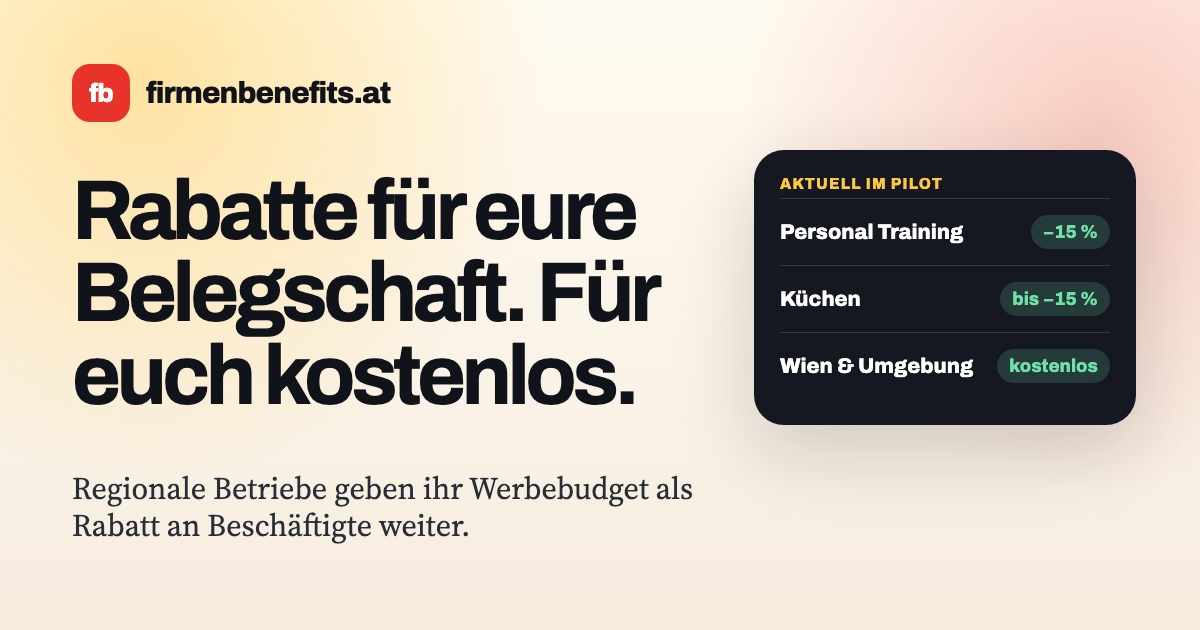
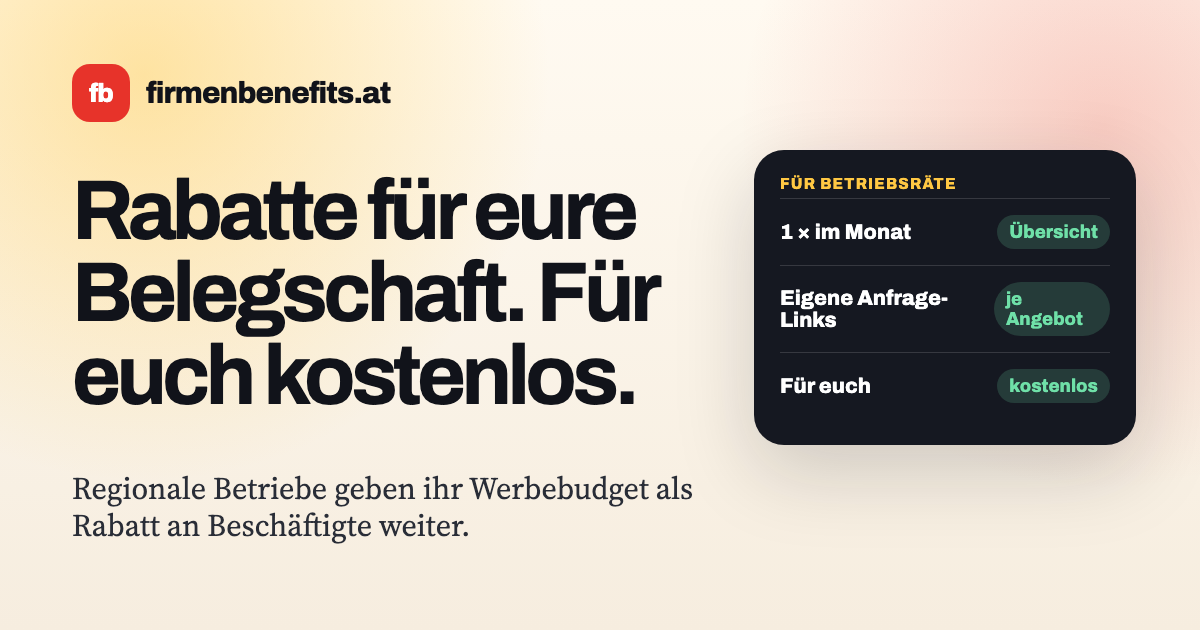
Angebote nicht öffentlich: keine Übersicht/Links/Sitemap, noindex; individuelle Links je Angebot und Gremium (br/utm); Startseite ohne Angebotsformular

diff --git a/public/site.js b/public/site.js
@@ -30,30 +30,6 @@ menu?.querySelectorAll('a').forEach(a => a.addEventListener('click', () => menu.
 document.addEventListener('keydown', e => { if (e.key === 'Escape') menu?.removeAttribute('open'); });
 document.addEventListener('click', e => { if (menu?.open && !e.target.closest('.mobile-menu')) menu.removeAttribute('open'); });
 
-// --- Region filter (/angebote/) ---
-const filterButtons = [...document.querySelectorAll('[data-filter]')];
-if (filterButtons.length) {
-  const cards = [...document.querySelectorAll('#angebot-liste .offer-card')];
-  const empty = document.getElementById('angebot-leer');
-  const apply = region => {
-    let shown = 0;
-    for (const card of cards) {
-      const ok = region === 'alle' || card.dataset.regionen.split(' ').includes(region);
-      card.hidden = !ok; if (ok) shown++;
-    }
-    for (const b of filterButtons) b.setAttribute('aria-pressed', String(b.dataset.filter === region));
-    if (empty) empty.hidden = shown > 0;
-  };
-  filterButtons.forEach(b => b.addEventListener('click', () => {
-    apply(b.dataset.filter);
-    const url = new URL(location.href);
-    if (b.dataset.filter === 'alle') url.searchParams.delete('region'); else url.searchParams.set('region', b.dataset.filter);
-    history.replaceState(null, '', url);
-  }));
-  const initial = query.get('region');
-  if (initial && filterButtons.some(b => b.dataset.filter === initial)) apply(initial);
-}
-
 // --- Forms ---
 const THANKS = { anfrage: '/danke/anfrage/', betriebsrat: '/danke/betriebsrat/', partner: '/danke/partner/' };
 const EVENTS = { anfrage: 'Anfrage gesendet', betriebsrat: 'Betriebsrat angemeldet', partner: 'Partner-Anfrage gesendet' };
@@ -138,7 +114,11 @@ async function initForms() {
         if (tracking.br) props.br = tracking.br;
         const next = new URL(THANKS[kind], location.origin);
         next.searchParams.set('id', data.id);
-        if (kind === 'anfrage') next.searchParams.set('angebot', form.elements.angebot.value);
+        if (kind === 'anfrage') {
+          next.searchParams.set('angebot', form.elements.angebot.value);
+          const partner = form.closest('[data-partner]')?.dataset.partner;
+          if (partner) next.searchParams.set('partner', partner);
+        }
         if (tracking.br) next.searchParams.set('br', tracking.br);
         let navigated = false;
         const go = () => { if (!navigated) { navigated = true; location.assign(next.pathname + next.search); } };
@@ -160,13 +140,8 @@ if (/^FB-\d{4}-[A-Z0-9]{5}$/.test(id)) {
   document.querySelectorAll('[data-fill="id"]').forEach(el => { el.textContent = id; });
   document.querySelectorAll('[data-show="id"]').forEach(el => { el.hidden = false; });
 }
-const slug = query.get('angebot');
-if (slug && document.querySelector('[data-fill="partner"]')) {
-  fetch('/angebote.json').then(r => r.json()).then(map => {
-    const partner = map[slug]?.partner;
-    if (partner) document.querySelectorAll('[data-fill="partner"]').forEach(el => { el.textContent = partner; });
-  }).catch(() => {});
-}
+const partnerName = (query.get('partner') || '').trim().slice(0, 80);
+if (partnerName) document.querySelectorAll('[data-fill="partner"]').forEach(el => { el.textContent = partnerName; });
 
 // --- Double opt-in confirmation (/bestaetigen/) ---
 const doi = document.querySelector('form.doi-form');

diff --git a/public/styles.css b/public/styles.css
@@ -340,7 +340,8 @@ input:focus, textarea:focus, select:focus { outline: none; border-color: var(--b
 
 /* layout refinements after visual QA */
 .hero .benefit-card { min-height: 0; justify-content: flex-start; gap: 22px; }
-.hero-grid { align-items: start; }
+.hero-grid { align-items: center; }
+h1, h2 { text-wrap: balance; }
 .hero .benefit-card { margin-top: 8px; }
 .contact { grid-template-columns: minmax(0, .85fr) minmax(0, 1.15fr); gap: clamp(28px, 4vw, 56px); }
 .contact h2 { font-size: clamp(30px, 3.4vw, 46px); line-height: 1.02; }

diff --git a/README.md b/README.md
@@ -9,7 +9,9 @@ Website für firmenbenefits.at: statische Seiten (generiert aus `content/`) plus
 3. `npm test && npm run build` – der Build prüft Pflichtfelder und Regionen.
 4. Committen, pushen, in Coolify deployen.
 
-Daraus entstehen automatisch: Angebotsseite `/angebote/<slug>/` mit Anfrageformular, Karte in `/angebote/` (inkl. Regionsfilter), Teaser auf der Startseite, Eintrag in Sitemap und Datenschutzerklärung (Partnerliste). Abgelaufene Angebote: `"aktiv": false`.
+Daraus entsteht automatisch die Angebotsseite `/angebote/<slug>/` mit eigenem Anfrageformular. Angebote sind **nicht öffentlich auffindbar**: keine Übersicht (`/angebote/` → Startseite), keine Links von öffentlichen Seiten, nicht in der Sitemap, `noindex` (Meta + `X-Robots-Tag`). Erreichbar nur über die individuellen Links in den Betriebsrats-Mails. Abgelaufene Angebote: `"aktiv": false`.
+
+Link-Format je Angebot und Gremium: `https://firmenbenefits.at/angebote/<slug>/?br=<BR-ID>&utm_source=betriebsrat&utm_medium=email&utm_campaign=<yyyy-mm>`. Alte Kurzform `/?angebot=<alias>&br=<BR-ID>` leitet per 302 auf die Angebotsseite weiter (Aliase im Feld `aliase`). Bei Betriebsrat-Anmeldungen über das Formular stehen die fertigen Links des Gremiums im ClickUp-Task und in der Kopie-Mail.
 
 ## Formulare und Datenfluss
 
